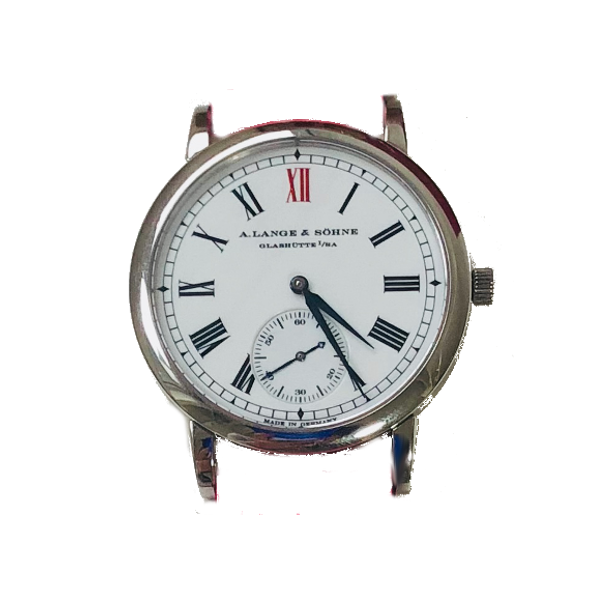
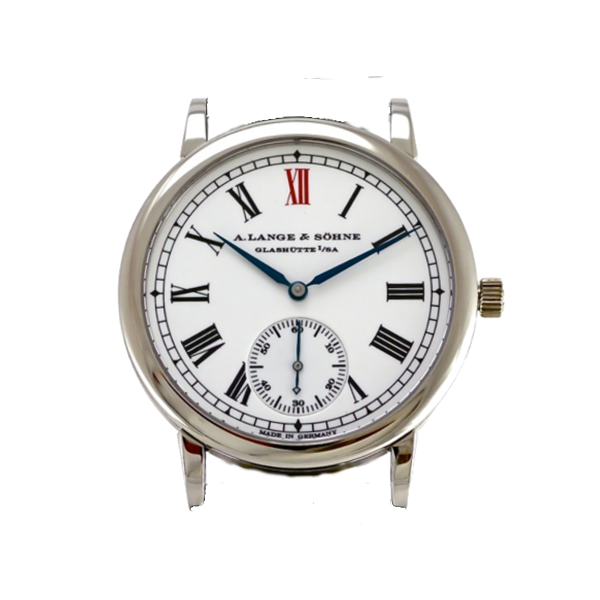
new batch

Changed region(s): [[0.18, 0.15, 0.84, 0.87]]

diff --git a/index.html b/index.html
@@ -53,6 +53,7 @@
                     <image src="watch/sinn104.png" class="watchbtn"></image>
                     <image src="watch/navitimer.png" class="watchbtn"></image>
                     <image src="watch/alange.png" class="watchbtn"></image>
+                    <image src="watch/pp5119.png" class="watchbtn"></image>
                 </div>
                 <div class="col-sm-3">
                     <div><image src="strap/sample_strap1_up.png" class="strapup"></image></div>
@@ -65,6 +66,7 @@
                   <image src="strap/sample_strap2_up.png" class="strapbtn"></image>
                   <image src="strap/sample_strap3_up.png" class="strapbtn"></image>
                   <image src="strap/jk_green_up.png" class="strapbtn"></image>
+                  <image src="strap/jk_orange_up.png" class="strapbtn"></image>
                   <image src="strap/ugwc_up.png" class="strapbtn"></image>
                   <image src="strap/sample_green_up.png" class="strapbtn"></image>
                   <image src="strap/sample_blue_up.png" class="strapbtn"></image>
@@ -76,6 +78,8 @@
                   <image src="strap/sample_black1_up.png" class="strapbtn"></image>
                   <image src="strap/ndc_green_up.png" class="strapbtn"></image>
                   <image src="strap/wu_red_up.png" class="strapbtn"></image>
+                  <image src="strap/wu_blue_up.png" class="strapbtn"></image>
+                  <image src="strap/wu_brown_up.png" class="strapbtn"></image>
                   <a class="msgbox" href="#">Ⓒ 2018 reachlin@gmail.com</a>
                 </div>
     </div>
